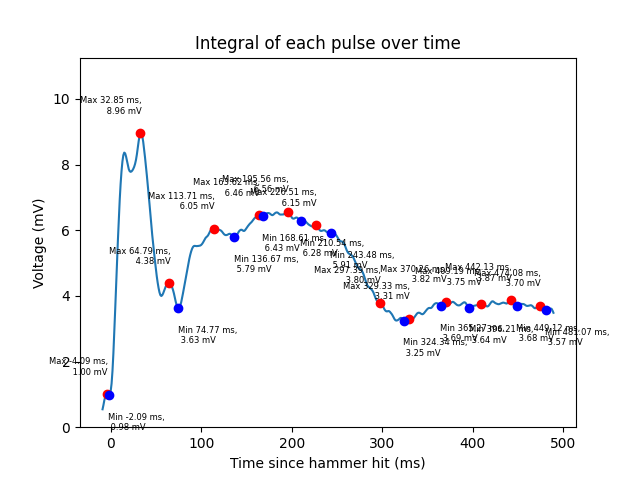
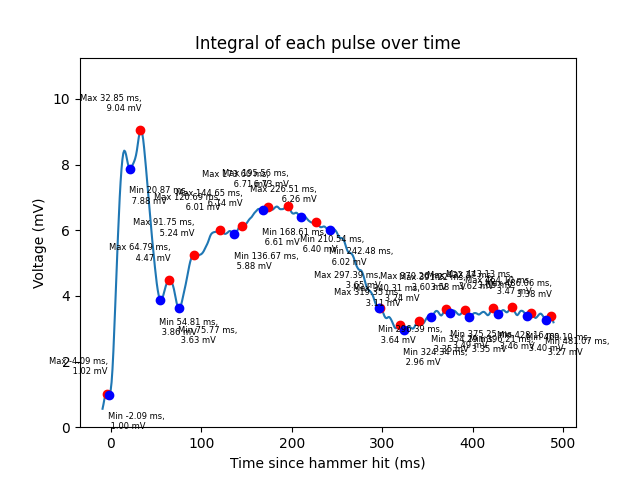
reanalyze keyu sophie priya

diff --git a/src/data_analysis_jupyter/analyze_Pico_data.py b/src/data_analysis_jupyter/analyze_Pico_data.py
@@ -1324,10 +1324,21 @@ if __name__ == "__main__":
         "src/app_v1/data_from_experiments/reflex_by_subject/Pico/isabel/isabel_no_box/isabel6.csv",
         "src/app_v1/data_from_experiments/reflex_by_subject/Pico/isabel/isabel_no_box/isabel7.csv",
         "src/app_v1/data_from_experiments/reflex_by_subject/Pico/isabel/isabel_no_box/isabel8.csv",
-        "src/app_v1/data_from_experiments/reflex_by_subject/Pico/isabel/isabel_no_box/isabel9.csv",
-        "src/app_v1/data_from_experiments/reflex_by_subject/Pico/isabel/isabel_no_box/isabel10.csv",
+        "src/app_v1/data_from_experiments/reflex_by_subject/Pico/isabel/isabel_no_box/isabel9.csv"
     ]
 
+    pico_file_names_priya_P1 = [
+        "src/app_v1/data_from_experiments/reflex_by_subject/Pico/priya/priyatrial1.txt",
+        "src/app_v1/data_from_experiments/reflex_by_subject/Pico/priya/priyatrial2.txt",
+        "src/app_v1/data_from_experiments/reflex_by_subject/Pico/priya/priyatrial3.txt",
+        "src/app_v1/data_from_experiments/reflex_by_subject/Pico/priya/priyatrial4.txt",
+        "src/app_v1/data_from_experiments/reflex_by_subject/Pico/priya/priyatrial5.txt",
+        "src/app_v1/data_from_experiments/reflex_by_subject/Pico/priya/priyatrial6.txt",
+        "src/app_v1/data_from_experiments/reflex_by_subject/Pico/priya/priyatrial7.txt",
+        "src/app_v1/data_from_experiments/reflex_by_subject/Pico/priya/priyatrial8.txt",
+        "src/app_v1/data_from_experiments/reflex_by_subject/Pico/priya/priyatrial9.txt",
+        "src/app_v1/data_from_experiments/reflex_by_subject/Pico/priya/priyatrial10.txt"
+    ]
     #####################################################################################################
     #####################################################################################################
     #####################################################################################################
@@ -1337,9 +1348,9 @@ if __name__ == "__main__":
     # !!!!!!!!!!!!!!!!!!!!!!!!!!!!!!!!!!!!!!!!!!!!!!!!!!!! Example usage: Uncomment to analyze one experiment.
     #''' 
     # !!!!!!!!!!!!!!! User should edit: file_names, col_order, experiment_name as needed.
-    file_names = pico_file_names_isabel_P1
+    file_names = pico_file_names_priya_P1
     col_order = [0, 2, 3, 1, 1, 1]  # time=col 0, hammer=col 3, transmitted=col 4, raw recieved=col 1, circuit env=col 2, emg=1 (dummy)
-    experiment_name = "Exp_Summary_isabel_P1"
+    experiment_name = "Exp_Summary_priya_P1"
     analyze_circuit_envelope = False
     analyze_calculated_envelope = True
     # !!!!!!!!!!!!!!!
